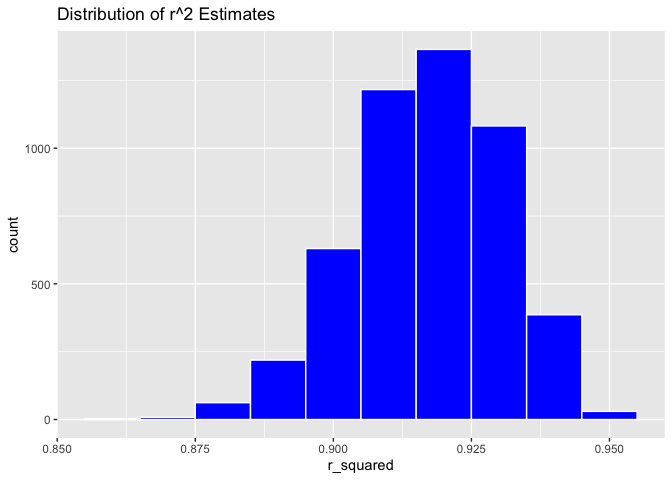
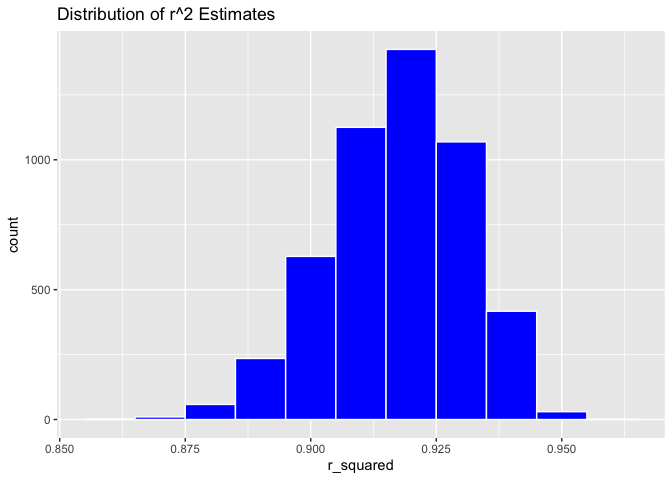
edited

diff --git a/HW6.md b/HW6.md
@@ -18,6 +18,12 @@ library(tidyverse)
     ## ✖ dplyr::lag()    masks stats::lag()
     ## ℹ Use the conflicted package (<http://conflicted.r-lib.org/>) to force all conflicts to become errors
 
+``` r
+library(purrr)
+library(ggridges)
+library(modelr)
+```
+
 # Problem 2
 
 ``` r
@@ -101,13 +107,13 @@ bootstrap_results =
   )
 ```
 
-    ## Warning: There were 3329 warnings in `mutate()`.
+    ## Warning: There were 3335 warnings in `mutate()`.
     ## The first warning was:
     ## ℹ In argument: `beta_log_product = map_dbl(lm_fit, ~log(coef(.)["tmin"] *
     ##   coef(.)["prcp"]))`.
     ## Caused by warning in `log()`:
     ## ! NaNs produced
-    ## ℹ Run `dplyr::last_dplyr_warnings()` to see the 3328 remaining warnings.
+    ## ℹ Run `dplyr::last_dplyr_warnings()` to see the 3334 remaining warnings.
 
 ``` r
 ggplot(bootstrap_results, aes(x = r_squared)) +
@@ -124,7 +130,7 @@ ggplot(bootstrap_results, aes(x = beta_log_product)) +
   labs(title = "Distribution of log(beta1 * beta2) Estimates")
 ```
 
-    ## Warning: Removed 3329 rows containing non-finite values (`stat_bin()`).
+    ## Warning: Removed 3335 rows containing non-finite values (`stat_bin()`).
 
 ![](HW6_files/figure-gfm/unnamed-chunk-9-1.png)<!-- --> log(beta1 \*
 beta2) estimations are left-skewed
@@ -140,14 +146,14 @@ conf_interval_r_squared
 ```
 
     ##      2.5%     97.5% 
-    ## 0.8881548 0.9402629
+    ## 0.8881933 0.9407424
 
 ``` r
 conf_interval_beta_log_product
 ```
 
     ##      2.5%     97.5% 
-    ## -9.072261 -4.579759
+    ## -9.032400 -4.586329
 
 Problem 3
 
@@ -217,6 +223,7 @@ print(missing_values)
 
 ``` r
 bw_df <- bw_df |>
+  janitor::clean_names()|>
   mutate(
     babysex = as.factor(babysex),
     frace = as.factor(frace),
@@ -224,6 +231,12 @@ bw_df <- bw_df |>
     mrace = as.factor(mrace)
   )
 ```
+
+This dataset contains 4342 observations of 20 variables with no missing
+values. I’m trying to investigate the impact of several key factors on
+the weight of a newborn, as measured in grams (bwt). I chose to start
+with some factors might affect birthweight, including gestational age,
+mother’s age, weight gain, and smoking during pregnancy.
 
 ``` r
 model1 <- lm(bwt ~ gaweeks + momage + wtgain + smoken, data = bw_df)
@@ -257,9 +270,9 @@ library(ggplot2)
 library(modelr)
 library(dplyr)
 
-bw_df <- bw_df %>%
-  add_predictions(model1) %>%
-  add_residuals(model1)
+bw_df <- bw_df |>
+  modelr::add_predictions(model1,var = "pred") |>
+  modelr::add_residuals(model1,var = "resid")
 
 ggplot(bw_df, aes(x = pred, y = resid)) +
   geom_point() +
@@ -279,4 +292,73 @@ model_length_gestational <- lm(bwt ~ blength + gaweeks, data = bw_df)
 
 ``` r
 model_interactions <- lm(bwt ~ bhead + blength + babysex + bhead * blength + bhead * babysex + blength * babysex + bhead * blength * babysex, data = bw_df)
+summary(model_interactions)
 ```
+
+    ## 
+    ## Call:
+    ## lm(formula = bwt ~ bhead + blength + babysex + bhead * blength + 
+    ##     bhead * babysex + blength * babysex + bhead * blength * babysex, 
+    ##     data = bw_df)
+    ## 
+    ## Residuals:
+    ##      Min       1Q   Median       3Q      Max 
+    ## -1132.99  -190.42   -10.33   178.63  2617.96 
+    ## 
+    ## Coefficients:
+    ##                          Estimate Std. Error t value Pr(>|t|)    
+    ## (Intercept)            -7176.8170  1264.8397  -5.674 1.49e-08 ***
+    ## bhead                    181.7956    38.0542   4.777 1.84e-06 ***
+    ## blength                  102.1269    26.2118   3.896 9.92e-05 ***
+    ## babysex2                6374.8684  1677.7669   3.800 0.000147 ***
+    ## bhead:blength             -0.5536     0.7802  -0.710 0.478012    
+    ## bhead:babysex2          -198.3932    51.0917  -3.883 0.000105 ***
+    ## blength:babysex2        -123.7729    35.1185  -3.524 0.000429 ***
+    ## bhead:blength:babysex2     3.8781     1.0566   3.670 0.000245 ***
+    ## ---
+    ## Signif. codes:  0 '***' 0.001 '**' 0.01 '*' 0.05 '.' 0.1 ' ' 1
+    ## 
+    ## Residual standard error: 287.7 on 4334 degrees of freedom
+    ## Multiple R-squared:  0.6849, Adjusted R-squared:  0.6844 
+    ## F-statistic:  1346 on 7 and 4334 DF,  p-value: < 2.2e-16
+
+``` r
+cv_df=
+  crossv_mc(bw_df,100)|>
+   mutate(
+    train = map(train, as_tibble),
+    test = map(test, as_tibble))
+
+cv_df=
+  cv_df|>
+  mutate(
+    model1 = map(train,~lm(bwt ~ gaweeks + momage + wtgain + smoken, data = .x)),
+    model_length_gestational  = map(train, ~lm(bwt ~ gaweeks + blength, data = .x)),
+    model_interactions  = map(train, ~lm(bwt ~ bhead + blength + babysex + bhead * blength + bhead * babysex + blength * babysex + bhead * blength * babysex, data = .x)))|>
+  mutate(
+    rmse_model1 = map2_dbl(model1, test, ~rmse(model = .x,data = .y)),
+    rmse_model_length_gestational = map2_dbl(model_length_gestational, test, ~rmse(model = .x,data = .y)),
+    rmse_model_interactions = map2_dbl(model_interactions, test, ~rmse(model = .x,data = .y)))
+```
+
+``` r
+cv_df |> 
+  select(starts_with("rmse")) |> 
+  pivot_longer(
+    everything(),
+    names_to = "model", 
+    values_to = "rmse",
+    names_prefix = "rmse_") |> 
+  mutate(model = fct_inorder(model)) |> 
+  ggplot(aes(x = model, y = rmse,fill = model)) + 
+  geom_violin()+
+  scale_fill_brewer(palette = "Pastel2") +
+  labs(x = "Model", y = "RMSE", title = "Comparison of Model RMSEs") +
+  theme_minimal()+
+  theme(legend.position = "none")
+```
+
+![](HW6_files/figure-gfm/unnamed-chunk-20-1.png)<!-- --> The model using
+head circumference, length, sex, and all interactions (including the
+three-way interaction) between these has the lowest RMSE which indicates
+best model performance
